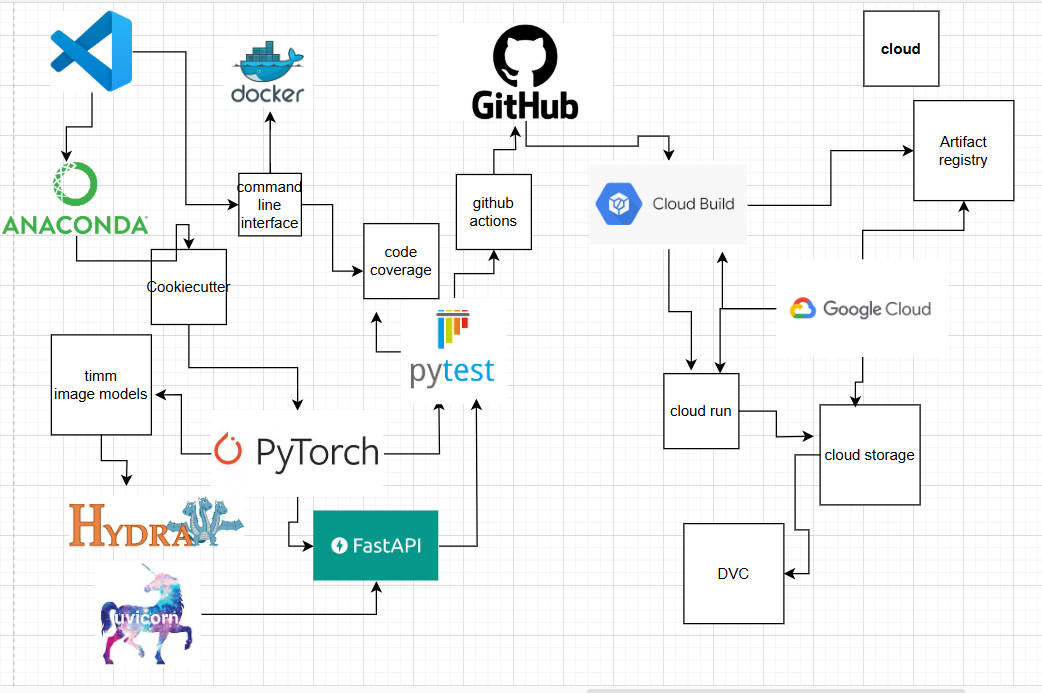
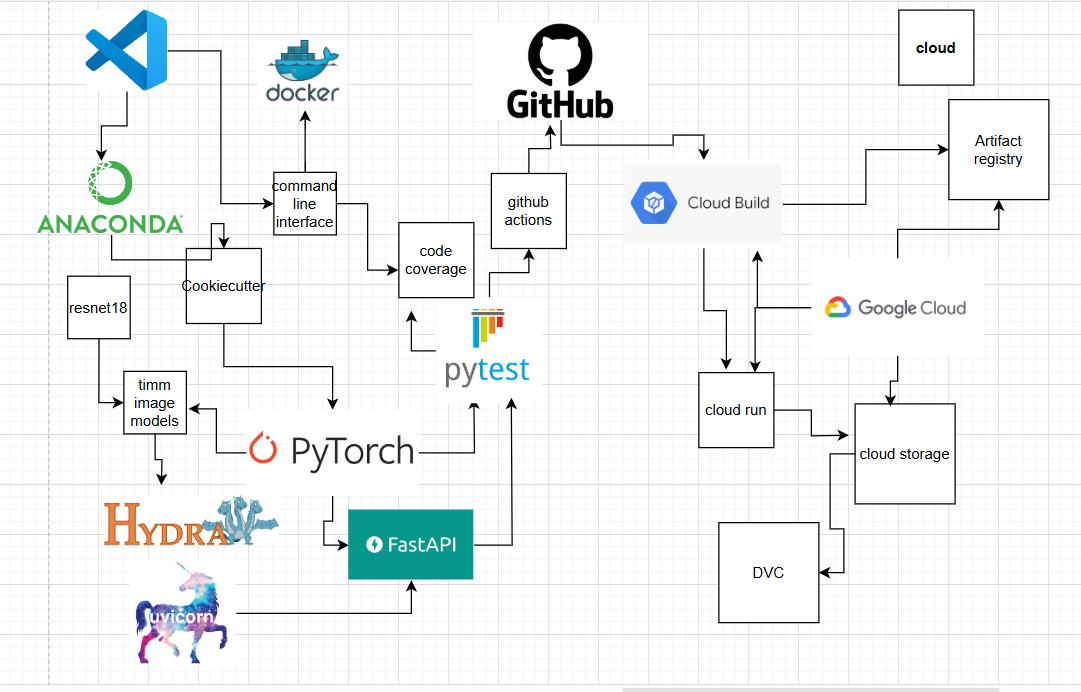
spørgsmål 29 & contribution

diff --git a/reports/README.md b/reports/README.md
@@ -631,6 +631,14 @@ a classification whether it is a cat or a dog on the image.
 > Answer:
 
 --- question 29 fill here ---
+the project structure has been described using [this figure](figures/project_structure.png)
+In this diagram we have the local properties on the left side and the cloud based components on the right side.
+The starting point is on the local side where we first of all specify which IDE we are using which is visual studio code. For our environment we use anaconda to create it and this is also where we have all our dependencies. For the generel structure and build we use cookiecutter in order to have a consistent and organised project setup across all project members. 
+We use Pytorch as our primary framework in ourder to build, train and deploy our models. In pytorch we use pytorch image models timm as our external framework. In timm we use the resNet18 pretrained model which is fast to train and is very good at image recognition. We use Hydra in order to organize our config files and logs all our experiments when training models. 
+When it comes to our API we have used fastAPI as it works very well in making GET,PUT,POST,DELETE functions and is easily used through URL. In order to test the API's locally we have used uvicorn to create a localHost server and then thorugh url tesing the different API functions.
+When it comes to testing our project we have used pytest in order to ensure that different parts of our project works as intended. We have created tests for the API, the data and the model. These pytests also gets run when we push anything to our github to make sure that nothing has been broken while making changes. On top of pytests we also have some pre commit github actions that checks the syntax and format of our code to not accidentally push some faulty code to the shared main branch. 
+In our IDE we also have some command-line interfaces especially used to create docker files and to check our code coverage of how much of our code is checked via the pytests. 
+From our github the docker files are pulled into the cloud where the cloud build makes docker images that are then used to deploy our project. The docker container images are then stored in our artifact registry and are also sent to the cloud run to deploy our docker images. The data when deployed are then stored in cloud storage. This is also used together with Data Version Control in order to manage data, models     
 
 ### Question 30
 
@@ -679,6 +687,8 @@ Student s224775 was in charge of:
 
 Student s224762 was in charge of:
 - API
+- Pytest for API
+- singleImageEvaluation 
 
 
 Student s224773 was in charge of:
@@ -688,3 +698,4 @@ We all contributed to the source code. In week 1 we decided that we would do mob
 while the rest were directing and discussing what to write. This gave all of us a good foundation and understanding for the project
 from the start.
 Then in the following weeks we would individually add to or edit the code to complete our delegated tasks. For instance, adding CLI meant changing the Python files to be run through (Typer/Invoke/Hydra)
+We have used ChatGPT to help set up some of the different dependensies and helped write some of the code as well as operation in the cloud.
